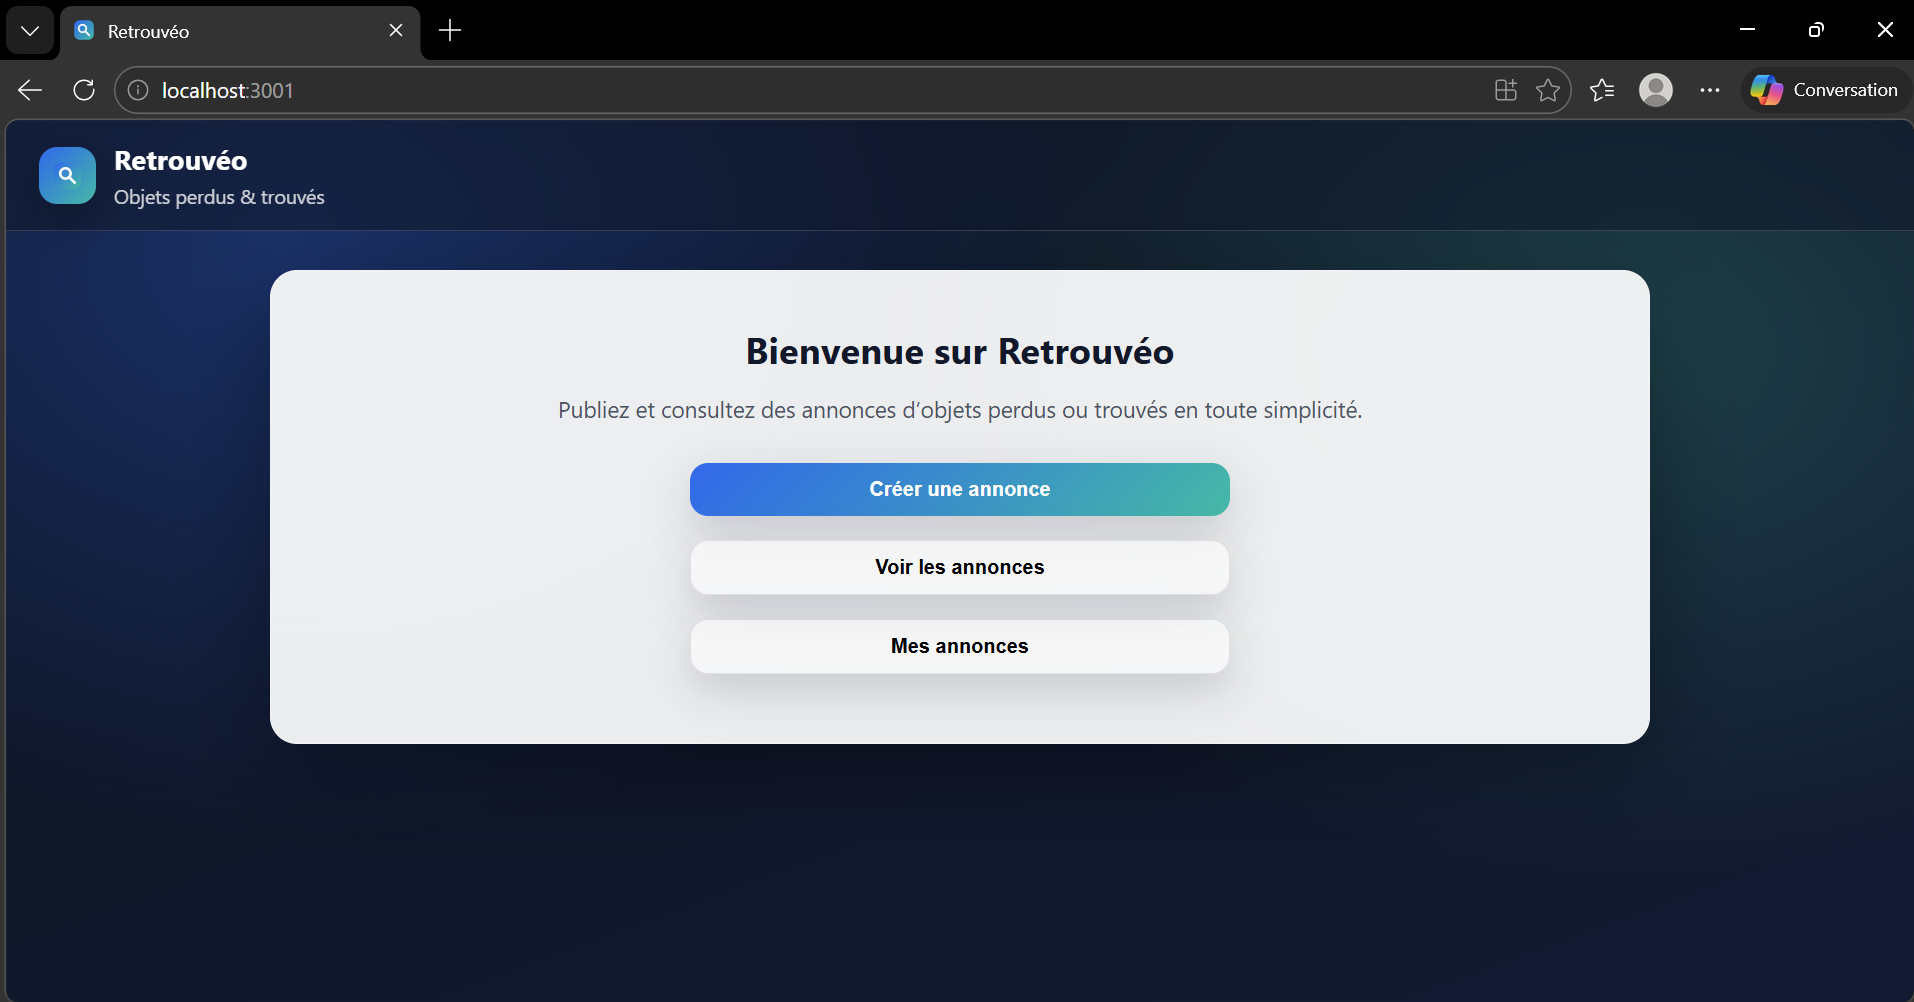
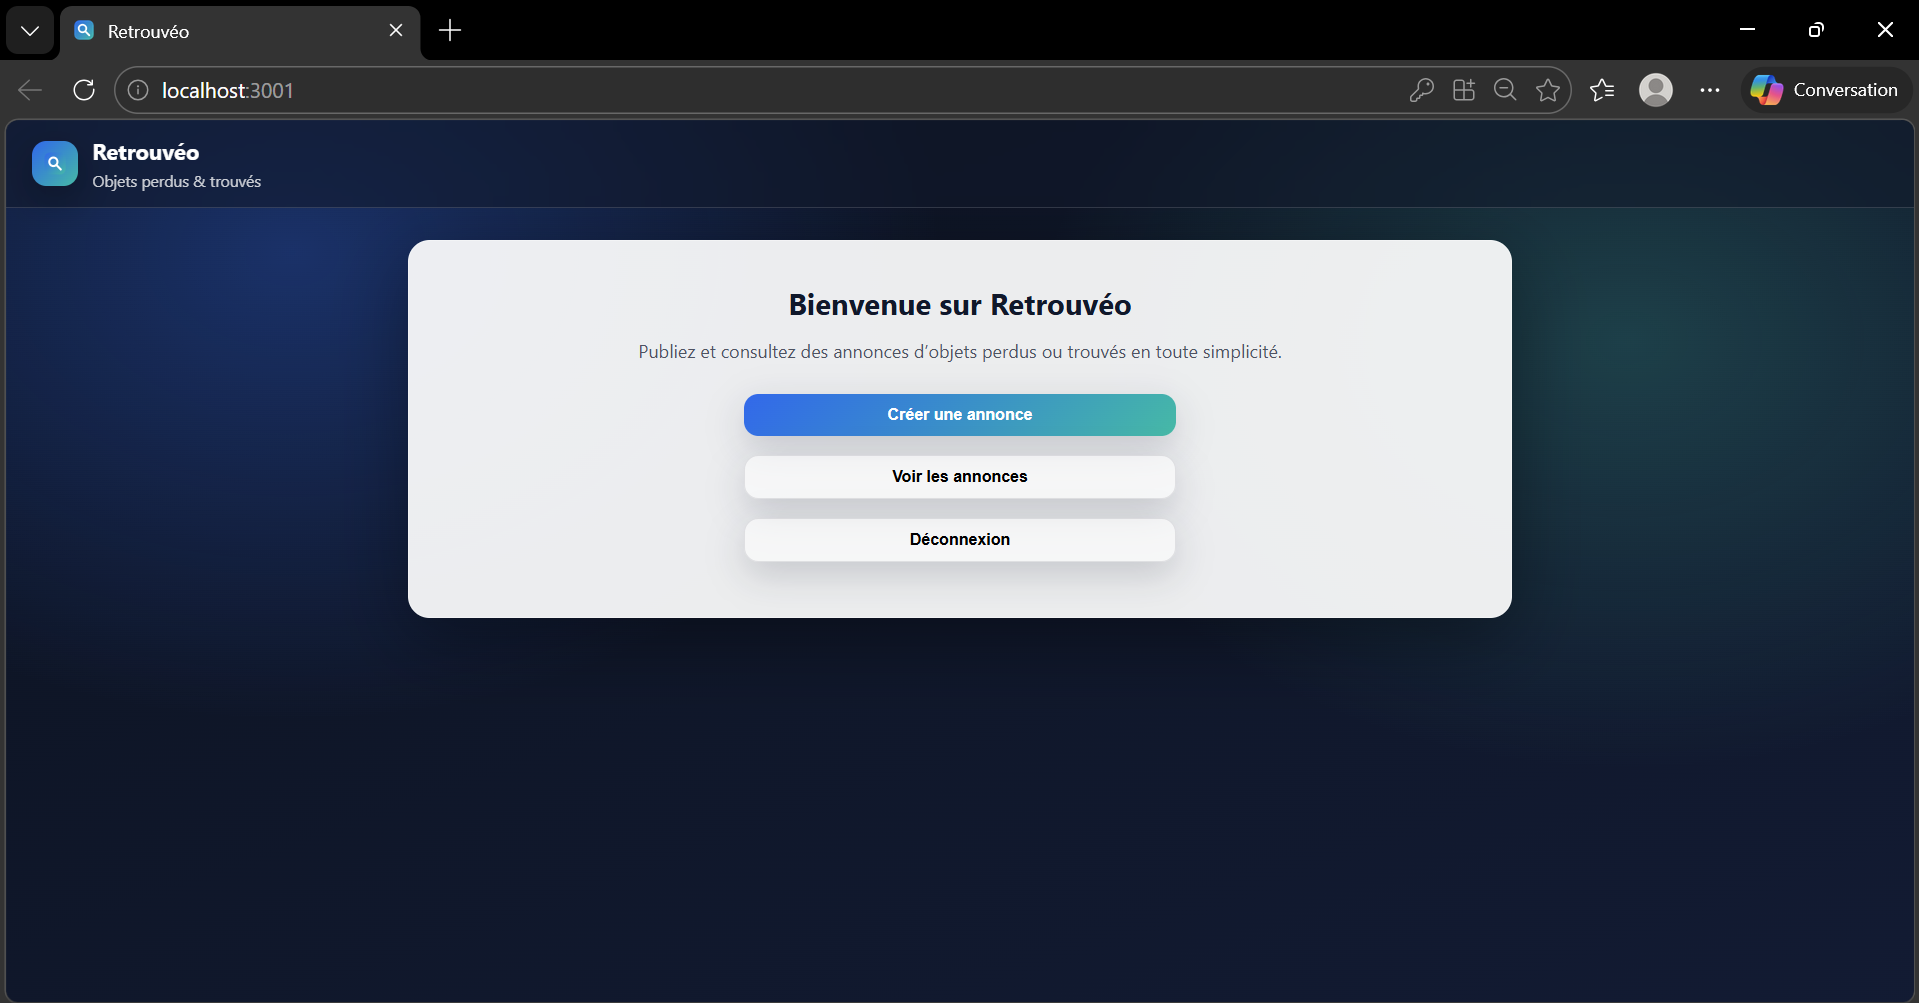
feat: Mettre tout en propre
1. Supprimer la partie MESANNONCES.
2. Mettre des commentaires propres.
3. Actualiser le readme.
4. Ajoute des captures d'écran.

diff --git a/app/backend-node/src/routes/annonces.js b/app/backend-node/src/routes/annonces.js
@@ -10,12 +10,11 @@ const router = express.Router();
 
 /**
  * FR: GET /annonces -> liste toutes les annonces (scan DynamoDB)
- * CN: 获取公告列表（DynamoDB scan）
  */
 router.get("/", async (_req, res) => {
   try {
     const data = await ddb.send(new ScanCommand({ TableName: RESOURCE.table }));
-    // FR: On retourne un tableau JSON simple. / CN: 返回普通数组，前端无需解析 {S:...}
+    // FR: On retourne un tableau JSON simple. 
     res.json(data.Items || []);
   } catch (err) {
     console.error("ERREUR GET /annonces:", err);
@@ -26,7 +25,6 @@ router.get("/", async (_req, res) => {
 /**
  * FR: GET /annonces/:id/image/upload-url
  *     -> génère une URL pré-signée pour uploader une image dans S3.
- * CN: 生成 presigned URL，用于前端直接 PUT 图片到 S3。
  */
 router.get("/:id/image/upload-url", async (req, res) => {
   const annonceId = req.params.id;
@@ -37,13 +35,12 @@ router.get("/:id/image/upload-url", async (req, res) => {
     const command = new PutObjectCommand({
       Bucket: RESOURCE.bucket,
       Key: key,
-      ContentType: "image/jpeg", // FR: simple / CN: 简化处理（也可从前端传）
+      ContentType: "image/jpeg", // FR: simple 
     });
 
     const uploadUrl = await getSignedUrl(s3, command, { expiresIn: 300 });
 
     // FR: On renvoie aussi la clé S3 pour l'enregistrer dans DynamoDB.
-    // CN: 同时返回 key，方便写入 DynamoDB。
     res.json({ uploadUrl, key });
   } catch (err) {
     console.error("ERREUR GET upload-url:", err);
@@ -53,12 +50,11 @@ router.get("/:id/image/upload-url", async (req, res) => {
 
 /**
  * FR: POST /annonces -> crée une annonce via Lambda.
- * CN: 创建公告（通过 Lambda 写入 DynamoDB + 发 SQS 事件）。
  */
 router.post("/", async (req, res) => {
   const { annonceId, title, description, location, type, eventDate, imageKey, mail, tel, ownerEmail } = req.body;
 
-  // FR: Validation minimale / CN: 最小校验
+  // FR: Validation minimale 
   if (!annonceId) return res.status(400).json({ error: "annonceId est requis." });
   if (!title) return res.status(400).json({ error: "Le titre est requis." });
   if (!type) return res.status(400).json({ error: "Le type est requis." });
@@ -66,7 +62,7 @@ router.post("/", async (req, res) => {
   if (!tel) return res.status(400).json({ error: "Le téléphone est requis." });
 
   try {
-    // FR: Appel Lambda / CN: 调用 Lambda
+    // FR: Appel Lambda
     const result = await createAnnonce({
       annonceId,
       title,
@@ -92,7 +88,6 @@ router.post("/", async (req, res) => {
 
 /**
  * FR: PATCH /annonces/:id/resolve -> clôture une annonce (status=RESOLVED)
- * CN: 关闭公告（status=RESOLVED）
  */
 router.patch("/:id/resolve", async (req, res) => {
   const annonceId = req.params.id;

diff --git a/app/frontend/src/App.js b/app/frontend/src/App.js
@@ -12,6 +12,7 @@ import ProtectedRoute from "./ProtectedRoute";
 function App() {
   return (
     <Router>
+       {/* En-tête commun affiché sur l’ensemble de l’application */}
       <header className="header">
         <div className="header-left">
           <div className="brand-mark" aria-hidden="true">
@@ -28,14 +29,14 @@ function App() {
       <main className="main">
         <div className="app-container">
           <Routes>
-            {/* Auth */}
+            {/* Routes publiques : accessibles sans authentification */}
             <Route path="/login" element={<LoginPage />} />
             <Route path="/register" element={<RegisterPage />} />
 
-            {/* Optionnel : rediriger toute route inconnue */}
+            {/* Redirection des routes inconnues vers la page d’accueil */}
             <Route path="*" element={<Navigate to="/" replace />} />
 
-            {/* Protected */}
+            {/* Routes protégées : accès autorisé seulement si un token est présent */}
             <Route
               path="/"
               element={
@@ -60,14 +61,14 @@ function App() {
                 </ProtectedRoute>
               }
             />
-            <Route
+            {/* <Route
               path="/mes-annonces"
               element={
                 <ProtectedRoute>
                   <MesAnnoncesPage />
                 </ProtectedRoute>
               }
-            />
+            /> */}
           </Routes>
         </div>
       </main>

diff --git a/app/frontend/src/Home.js b/app/frontend/src/Home.js
@@ -6,7 +6,7 @@ function Home() {
 
   const handleLogout = () => {
     localStorage.removeItem("token");
-    navigate("/login", { replace: true }); // 比 window.location.href 更干净
+    navigate("/login", { replace: true });
   };
 
   return (
@@ -18,19 +18,22 @@ function Home() {
       </p>
 
       <div className="home-actions">
+        {/* Accès à la page de création d’annonce */}
         <button className="btn btn-primary" onClick={() => navigate("/create")}>
           Créer une annonce
         </button>
 
+        {/* Accès à la liste des annonces */}
         <button className="btn btn-ghost" onClick={() => navigate("/annonces")}>
           Voir les annonces
         </button>
 
-        <button className="btn btn-ghost" onClick={() => navigate("/mes-annonces")}>
+        {/* Fonctionnalité optionnelle actuellement désactivée */}
+        {/* <button className="btn btn-ghost" onClick={() => navigate("/mes-annonces")}>
           Mes annonces
-        </button>
+        </button> */}
 
-        {/* Déconnexion */}
+        {/* Déconnexion de l’utilisateur */}
         <button className="btn btn-ghost" onClick={handleLogout}>
           Déconnexion
         </button>

diff --git a/lambdas/create-annonce/index.js b/lambdas/create-annonce/index.js
@@ -4,7 +4,6 @@ import { SQSClient, SendMessageCommand } from "@aws-sdk/client-sqs";
 /**
  * FR: Dans LocalStack, la Lambda tourne dans un conteneur.
  *     "host.docker.internal" permet d'accéder à LocalStack sur la machine hôte.
- * CN: LocalStack 的 Lambda 在容器里跑，用 host.docker.internal 访问宿主机的 4566。
  */
 const LOCALSTACK_ENDPOINT = process.env.LOCALSTACK_ENDPOINT || "http://host.docker.internal:4566";
 
@@ -33,7 +32,6 @@ export const handler = async (event) => {
 
   /**
    * FR: On exige annonceId venant du frontend pour garder la cohérence (imageKey / pk).
-   * CN: 强制使用前端传来的 annonceId，确保图片 key 和 pk 对齐。
    */
   const annonceId = body.annonceId;
   if (!annonceId) {

diff --git a/app/backend-node/src/services/lambda.js b/app/backend-node/src/services/lambda.js
@@ -2,7 +2,6 @@ import { LambdaClient, InvokeCommand } from "@aws-sdk/client-lambda";
 
 /**
  * FR: Client Lambda vers LocalStack.
- * CN: 指向 LocalStack 的 Lambda 客户端。
  */
 const lambdaClient = new LambdaClient({
   endpoint: process.env.LOCALSTACK_ENDPOINT || "http://localhost:4566",
@@ -12,7 +11,6 @@ const lambdaClient = new LambdaClient({
 export const createAnnonce = async (annonce) => {
   /**
    * FR: On simule un event API Gateway: { body: "..." }
-   * CN: 模拟 API Gateway 的 event 结构：{ body: "..." }
    */
   const payload = { body: JSON.stringify(annonce) };
 

diff --git a/app/backend-node/src/awsClients.js b/app/backend-node/src/awsClients.js
@@ -8,7 +8,6 @@ dotenv.config();
 
 /**
  * FR: Configuration commune pour LocalStack.
- * CN: LocalStack 通用配置（统一 region/endpoint/凭证，避免写读分裂）。
  */
 const region = process.env.AWS_REGION || "us-east-1";
 const endpoint = process.env.LOCALSTACK_ENDPOINT || "http://localhost:4566";
@@ -24,7 +23,7 @@ const config = {
 
 export const s3 = new S3Client({
   ...config,
-  forcePathStyle: true, // FR: nécessaire pour LocalStack / CN: LocalStack 必须
+  forcePathStyle: true, // FR: nécessaire pour LocalStack 
 });
 
 const ddbClient = new DynamoDBClient(config);

diff --git a/app/backend-node/src/index.js b/app/backend-node/src/index.js
@@ -10,7 +10,6 @@ const app = express();
 
 /**
  * FR: CORS pour le frontend (Vite/React).
- * CN: 允许前端跨域访问后端。
  */
 app.use(
   cors({
@@ -24,14 +23,12 @@ app.use(express.json({ limit: "10mb" }));
 
 /**
  * FR: Routes
- * CN: 路由入口
  */
 app.use("/auth", authRouter);
 app.use("/annonces", annoncesRouter);
 
 /**
  * FR: Health check
- * CN: 健康检查
  */
 app.get("/health", (_req, res) => {
   res.json({ message: "Serveur OK." });

diff --git a/app/backend-node/src/routes/auth.js b/app/backend-node/src/routes/auth.js
@@ -5,7 +5,7 @@ import { GetCommand, PutCommand } from "@aws-sdk/lib-dynamodb";
 import { ddb, RESOURCE } from "../awsClients.js";
 
 const router = express.Router();
-const JWT_SECRET = process.env.JWT_SECRET || "dev-secret"; // 本地测试用
+const JWT_SECRET = process.env.JWT_SECRET || "dev-secret"; 
 
 function userPk(email) {
   return `USER#${String(email).trim().toLowerCase()}`;

diff --git a/app/frontend/src/index.js b/app/frontend/src/index.js
@@ -3,6 +3,8 @@ import ReactDOM from "react-dom/client";
 import './index.css';
 import App from './App';
 
+// Point d’entrée de l’application React.
+// On monte le composant principal App dans l’élément HTML #root.
 const root = ReactDOM.createRoot(document.getElementById('root'));
 root.render(
   <React.StrictMode>

diff --git a/app/frontend/src/CreateAnnonce.js b/app/frontend/src/CreateAnnonce.js
@@ -22,7 +22,6 @@ function CreateAnnonce({ onCreated }) {
     /**
      * FR: ID unique généré côté frontend pour:
      *     - lier l'image S3 et l'annonce DynamoDB
-     * CN: 前端生成唯一ID，确保图片和DynamoDB公告同一个ID
      */
     const annonceId = crypto.randomUUID();
 

diff --git a/README.md b/README.md
@@ -1,6 +1,6 @@
 # Retrouvéo - site des objets perdus/trouvés
 
-## 1) Architecture & rôles des composants
+## 1) Architecture & Configuration
 
 ### Structure simplifiée du projet 
 - `infra/`
@@ -37,21 +37,44 @@ Dans `main.tf`, on crée précisément :
   - `MaxAgeSeconds = 3000`
 
 **2) DynamoDB**
+- Table : `Users`
 - Table : `Annonces`
-- Clé de partition (HASH) : `pk` (String)
-- Clé de tri (RANGE) : `sk` (String)
-- Mode : `PAY_PER_REQUEST`
+
 
 **3) SQS**
 - File : `annonce-events`
 
 **4)IAM + Lambda**
 - Role : `lambda-role`
-- Lambda : `create-annonce` (Node.js 18)
+- Lambda : `create-annonce`
 
+### Backend(Nodejs)
+
+### Frontend(React)
 ---
 
-## 2) Première exécution (setup complet depuis un clone)
+## 2) Déroulement du projet
+
+### Fonctionalités réaliées
+
+- Inscription
+- Connexion (JWT)
+- Création d'une annonce
+- Affichage de la liste des annonces
+- Clôturer une annonce en modifiant l'état de l'annonce
+
+### Chaîne d’exécution (Front → Back → LocalStack / Lambda)
+
+Le fonctionnement global peut se résumer ainsi :
+
+- **Front-end** → appelle une **API du back-end** (via `fetch`).
+- **Back-end** → selon la fonctionnalité :
+  - soit il **accède directement à LocalStack** via l’**AWS SDK** (ex. lecture des données, authentification/connexion),
+  - soit il **invoke une Lambda** (ex. création d’une annonce).
+- **Lambda** (si utilisée) → exécute la logique métier puis **écrit dans DynamoDB** et/ou **publie un événement dans SQS**.
+--
+
+## 3) Première exécution (setup complet depuis un clone)
 
 ### Étape A — Récupérer le projet
 git clone <URL_DU_DEPOT>
